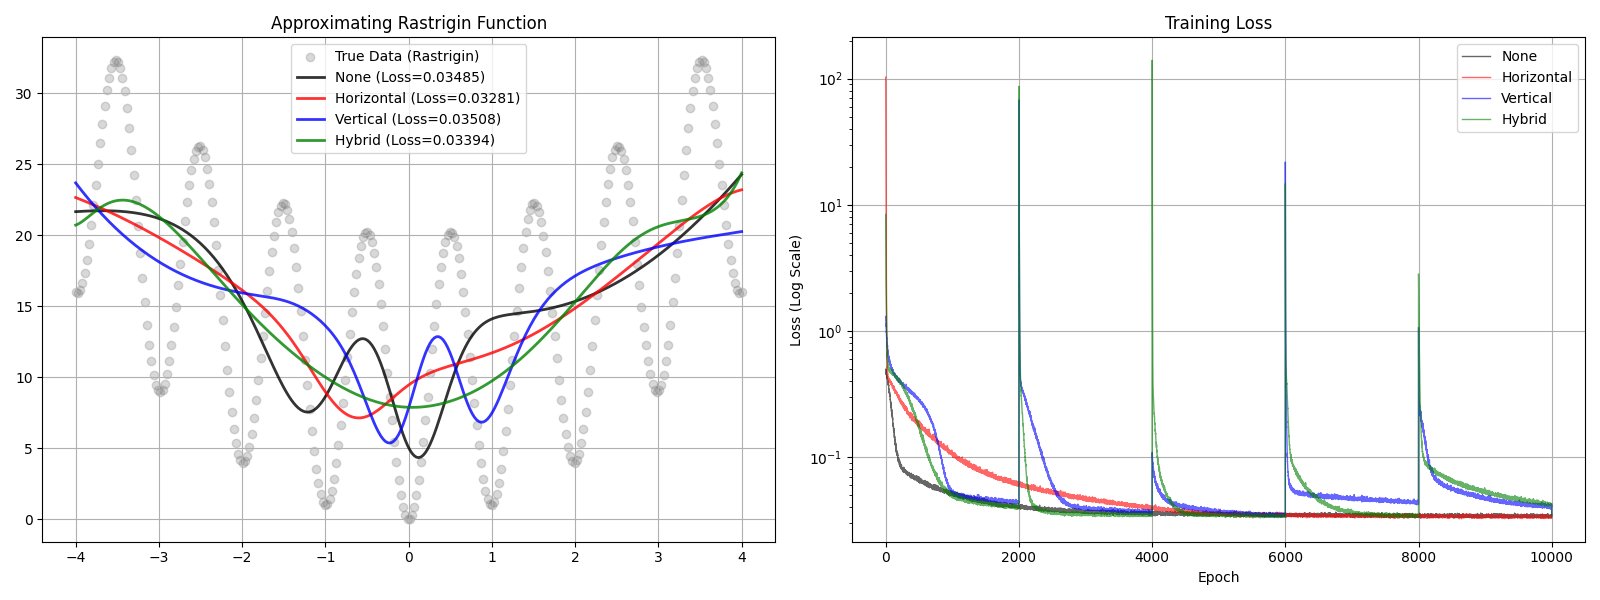
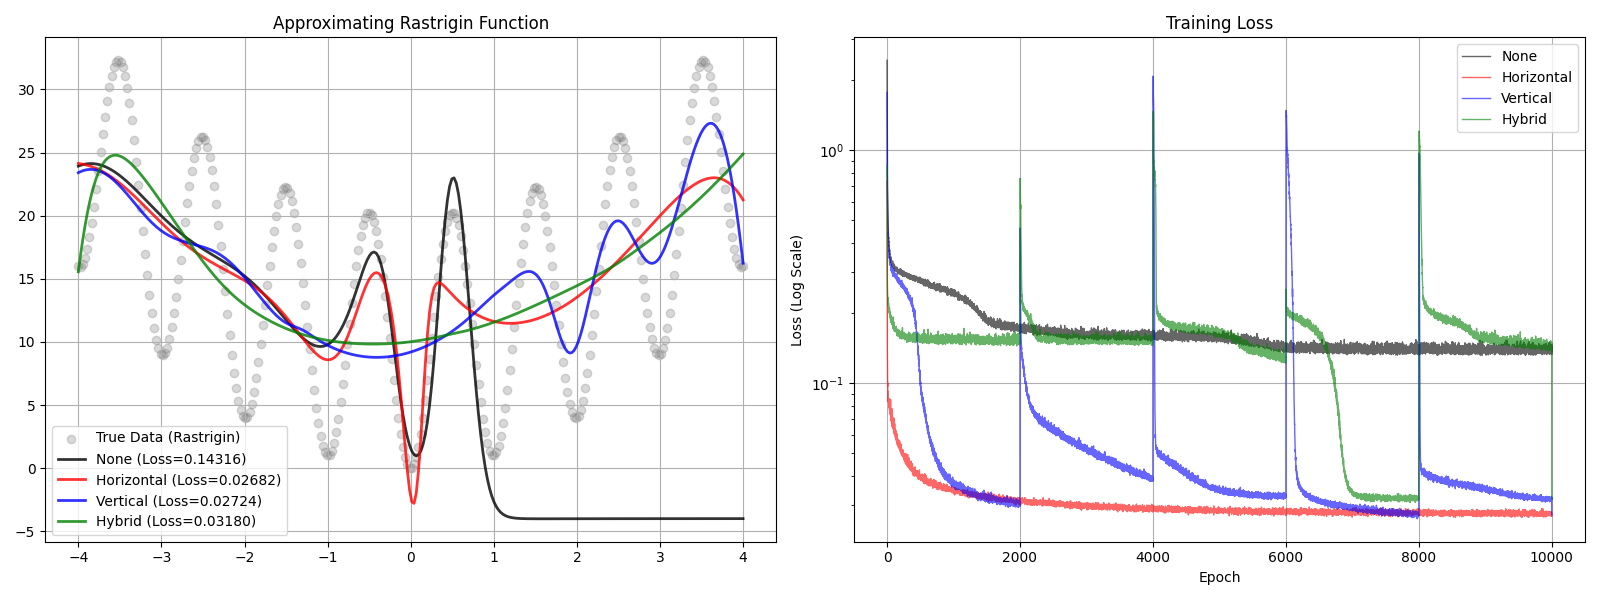
活性化関数をswish->tanhに変更、ノイズ、学習率の係数を一旦排除（Part1の実験と比較するためこのような処理を施した）

diff --git a/ml_core/network.py b/ml_core/network.py
@@ -1,4 +1,4 @@
-from ml_core.activations import swish, swish_deriv, identity, identity_deriv
+from ml_core.activations import tanh, tanh_deriv, identity, identity_deriv
 from ml_core.layer import DenseLayer
 class Network:
     def __init__(self):
@@ -33,26 +33,26 @@ class Network:
 
             # ミクロ層：隙間を素早く埋めるために学習率を少し高める（ここは自分で調整）
             elif layer.name in ["Micro_Hidden1", "Micro_Hidden2"]:
-                layer.weights -= (learning_rate*0.2) * layer.weights_gradient
-                layer.biases -= (learning_rate*0.2) * layer.biases_gradient
+                layer.weights -= (learning_rate) * layer.weights_gradient
+                layer.biases -= (learning_rate) * layer.biases_gradient
 
             # 出力層：暴走を抑えるためにマクロと同じか少し小さくする（要調整）
             elif layer.name in ["Macro_Output", "Micro_Output"]:
-                layer.weights -= (learning_rate*0.1) * layer.weights_gradient
-                layer.biases -= (learning_rate*0.1) * layer.biases_gradient
+                layer.weights -= (learning_rate) * layer.weights_gradient
+                layer.biases -= (learning_rate) * layer.biases_gradient
 
 class BimodalNetwork:
     def __init__(self):
         # 既存のNetworkクラスを使って2つのルートを構築する
         self.macro_net = Network()
-        self.macro_net.add(DenseLayer(1, 8, swish, swish_deriv, name="Macro_Hidden1"))
-        self.macro_net.add(DenseLayer(8, 8, swish, swish_deriv, name="Macro_Hidden2"))
-        self.macro_net.add(DenseLayer(8, 1, swish, swish_deriv, name="Macro_Output"))
+        self.macro_net.add(DenseLayer(1, 8, tanh, tanh_deriv, name="Macro_Hidden1"))
+        self.macro_net.add(DenseLayer(8, 8, tanh, tanh_deriv, name="Macro_Hidden2"))
+        self.macro_net.add(DenseLayer(8, 1, tanh, tanh_deriv, name="Macro_Output"))
 
         self.micro_net = Network()
-        self.micro_net.add(DenseLayer(1, 64, swish, swish_deriv, name="Micro_Hidden1"))
-        self.micro_net.add(DenseLayer(64, 64, swish, swish_deriv, name="Micro_Hidden2"))
-        self.micro_net.add(DenseLayer(64, 1, swish, swish_deriv, name="Micro_Output"))
+        self.micro_net.add(DenseLayer(1, 64, tanh, tanh_deriv, name="Micro_Hidden1"))
+        self.micro_net.add(DenseLayer(64, 64, tanh, tanh_deriv, name="Micro_Hidden2"))
+        self.micro_net.add(DenseLayer(64, 1, tanh, tanh_deriv, name="Micro_Output"))
 
     @property
     def layers(self):

diff --git a/physics_sim/vibration.py b/physics_sim/vibration.py
@@ -27,8 +27,8 @@ class PhysicsOptimizer:
 
             # ミクロ層：小さな石はよく動く（1.5倍程度、要調整）
             elif layer.name == "Micro_Hidden":
-                noise_w = np.random.normal(0, self.noise_scale*0.1, layer.weights_gradient.shape)
-                noise_b = np.random.normal(0, self.noise_scale*0.1, layer.biases_gradient.shape)
+                noise_w = np.random.normal(0, self.noise_scale, layer.weights_gradient.shape)
+                noise_b = np.random.normal(0, self.noise_scale, layer.biases_gradient.shape)
                 layer.weights_gradient += noise_w
                 layer.biases_gradient += noise_b
 
